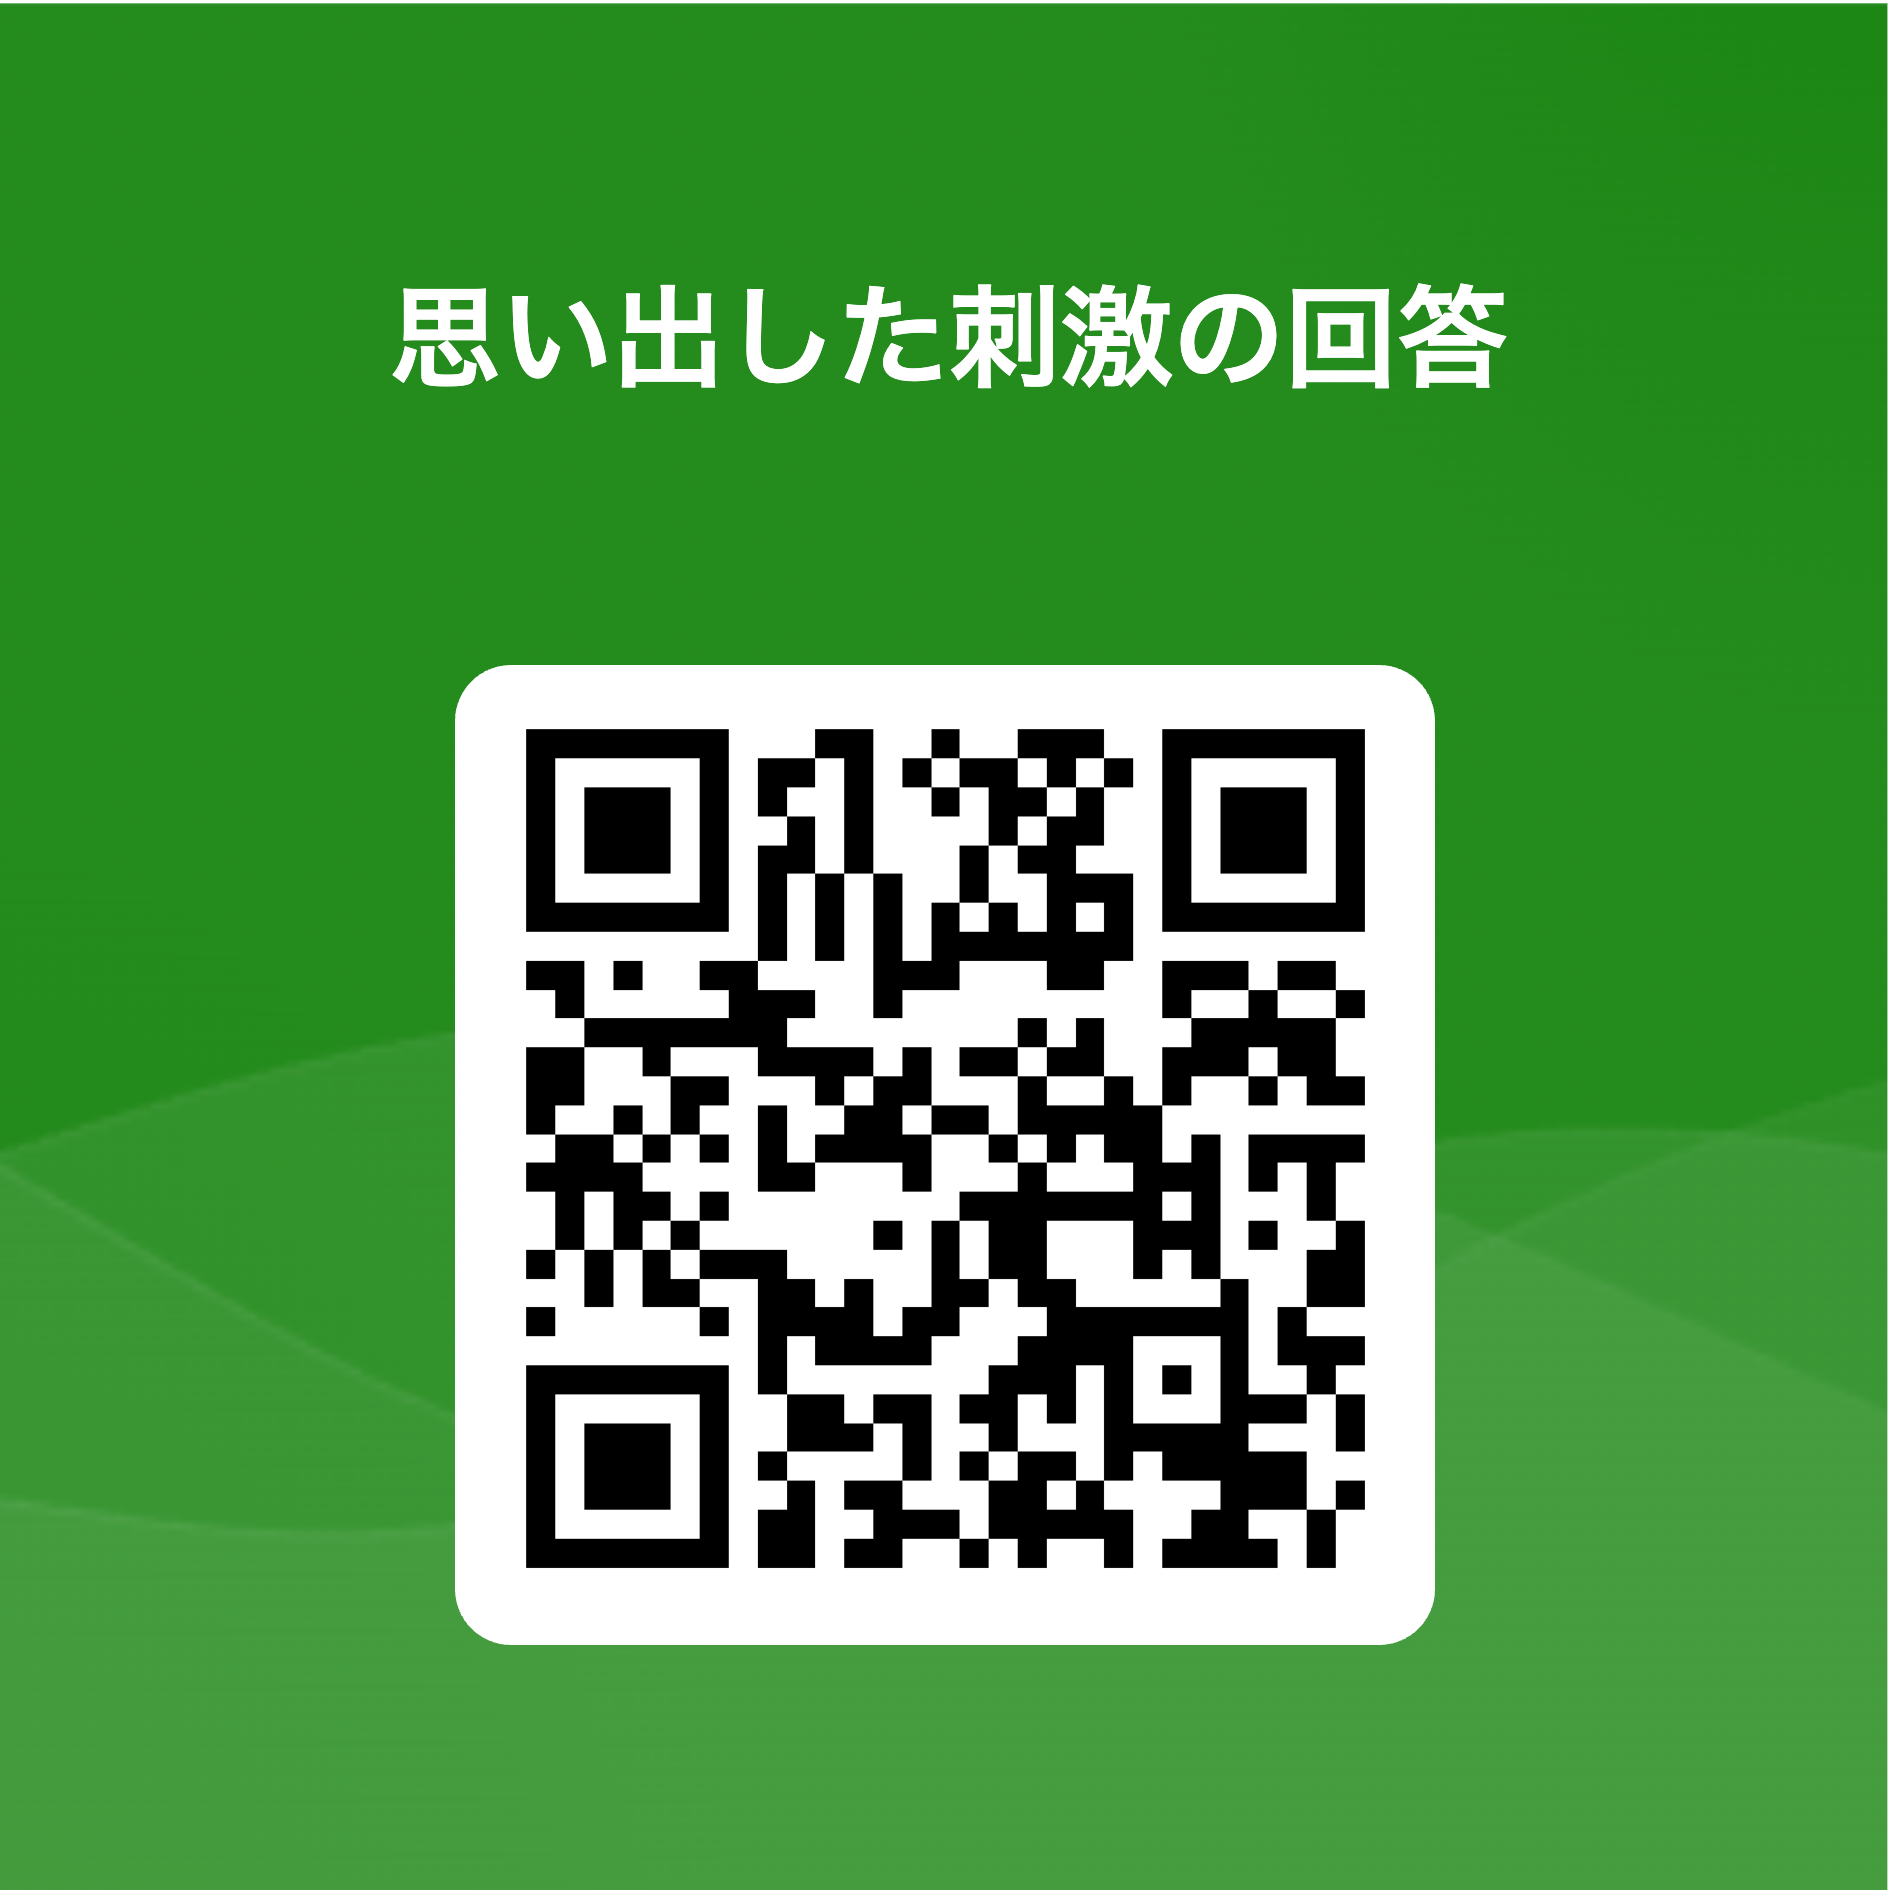
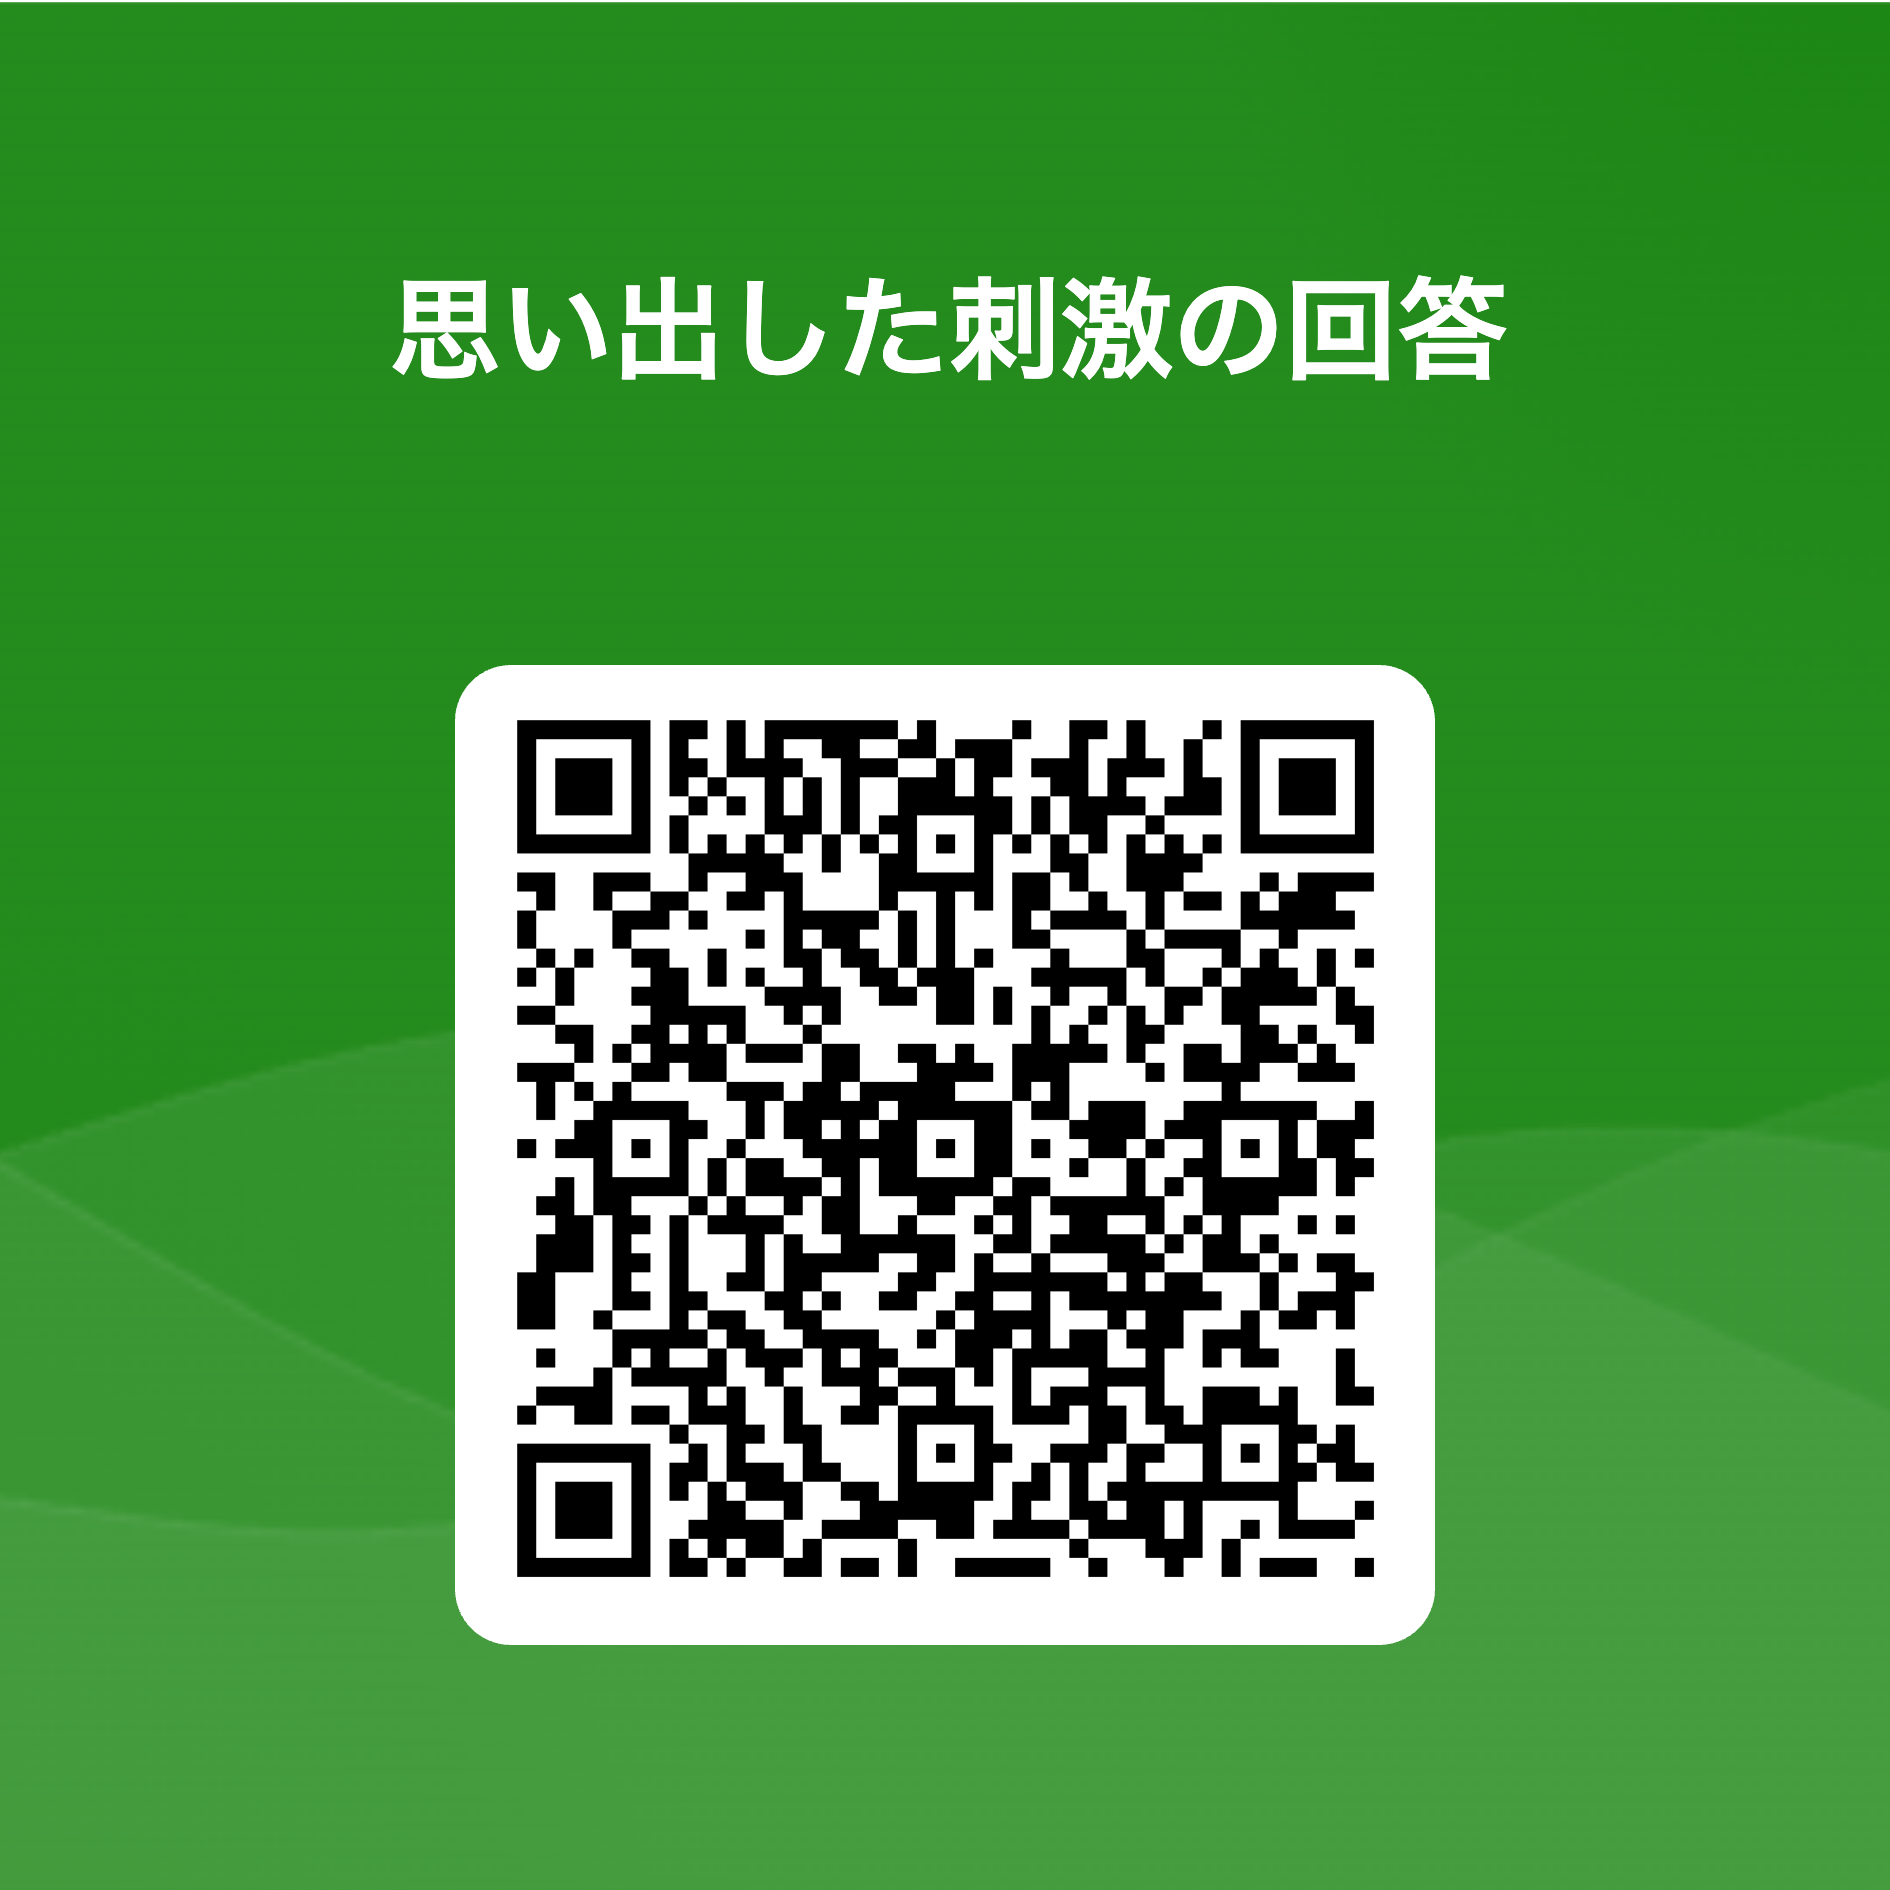
routine

diff --git a/src/settings.ts b/src/settings.ts
@@ -1,7 +1,7 @@
 export const settings = {
   waitTime: 1, // seconds
   wordInterval: 2, // seconds
-  formUrl: 'https://forms.office.com/r/3UnE4zT08C',
+  formUrl: 'https://forms.office.com/r/hYrg4HBbdX',
   qrCodeImgUrl: '/qrcode.png',
   waitTimeBeforeCalculate: 5, // seconds
   calculateDuration: 60, // seconds
